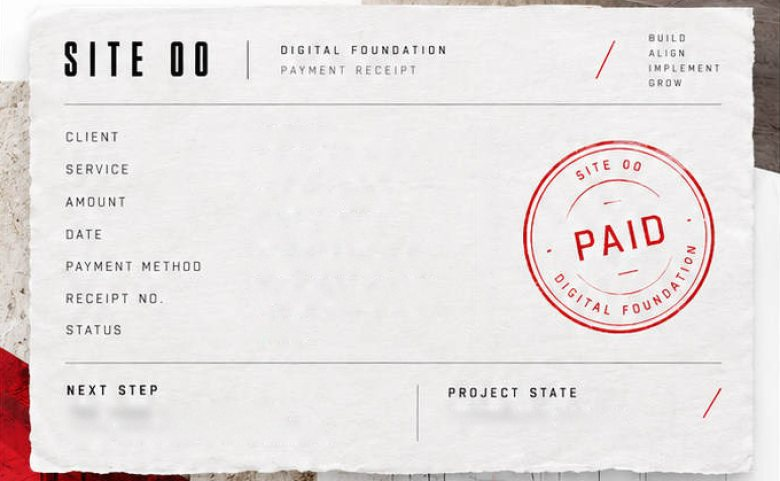
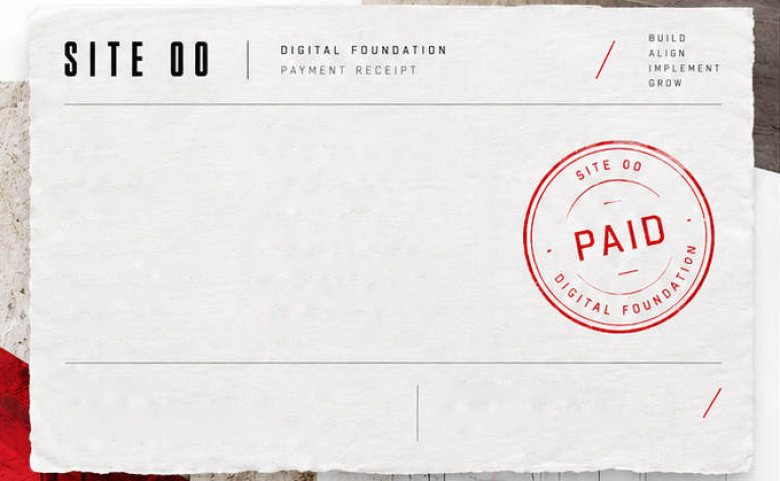
FNDATN-01: clear the mobile receipt field area so live receipt rows replace it

diff --git a/scripts/correspondence-studio/fndatn01/extract_assets.py b/scripts/correspondence-studio/fndatn01/extract_assets.py
@@ -219,14 +219,14 @@ def build_strips(slug):
 
 
 # ---------------------------------------------------------------------------------------------
-# 04 mobile receipt: the flat torn-paper receipt keeps its printed labels; only values are erased so
-# live values sit in the value column.
+# 04 mobile receipt: the flat torn-paper receipt keeps its header, divider, PAID seal and torn edges.
+# Field labels and values, the next-step copy and the project state are erased; live rows replace them.
 
 RECEIPT_RECT = (131, 621, 811, 1040)
 RECEIPT_VALUE_BOXES = [
-    (345, 725, 560, 925),   # client .. status values
-    (185, 975, 430, 1010),  # next step copy
-    (515, 975, 690, 1008),  # project state value
+    (175, 722, 562, 928),   # field labels and values
+    (180, 950, 472, 1013),  # next step label and copy
+    (508, 950, 702, 1011),  # project state label and value
 ]
 
 
@@ -239,7 +239,7 @@ def build_receipt():
     out = crop_resize(clean, RECEIPT_RECT, MOBILE_CANVAS * 2)
     path = save_jpg(out, '04_payment_received/receipt-mobile.jpg')
     record(path, '04_payment_received', 'mobile', RECEIPT_RECT, [{'kind': 'receipt_values', 'box': list(b)} for b in RECEIPT_VALUE_BOXES],
-           'mobile receipt paper with printed labels and PAID seal; live values overlay the value column', [MOBILE_CANVAS, round(out.shape[0] / 2)])
+           'mobile receipt paper with header, divider and PAID seal; live receipt rows overlay the cleared field area', [MOBILE_CANVAS, round(out.shape[0] / 2)])
 
 
 # ---------------------------------------------------------------------------------------------
